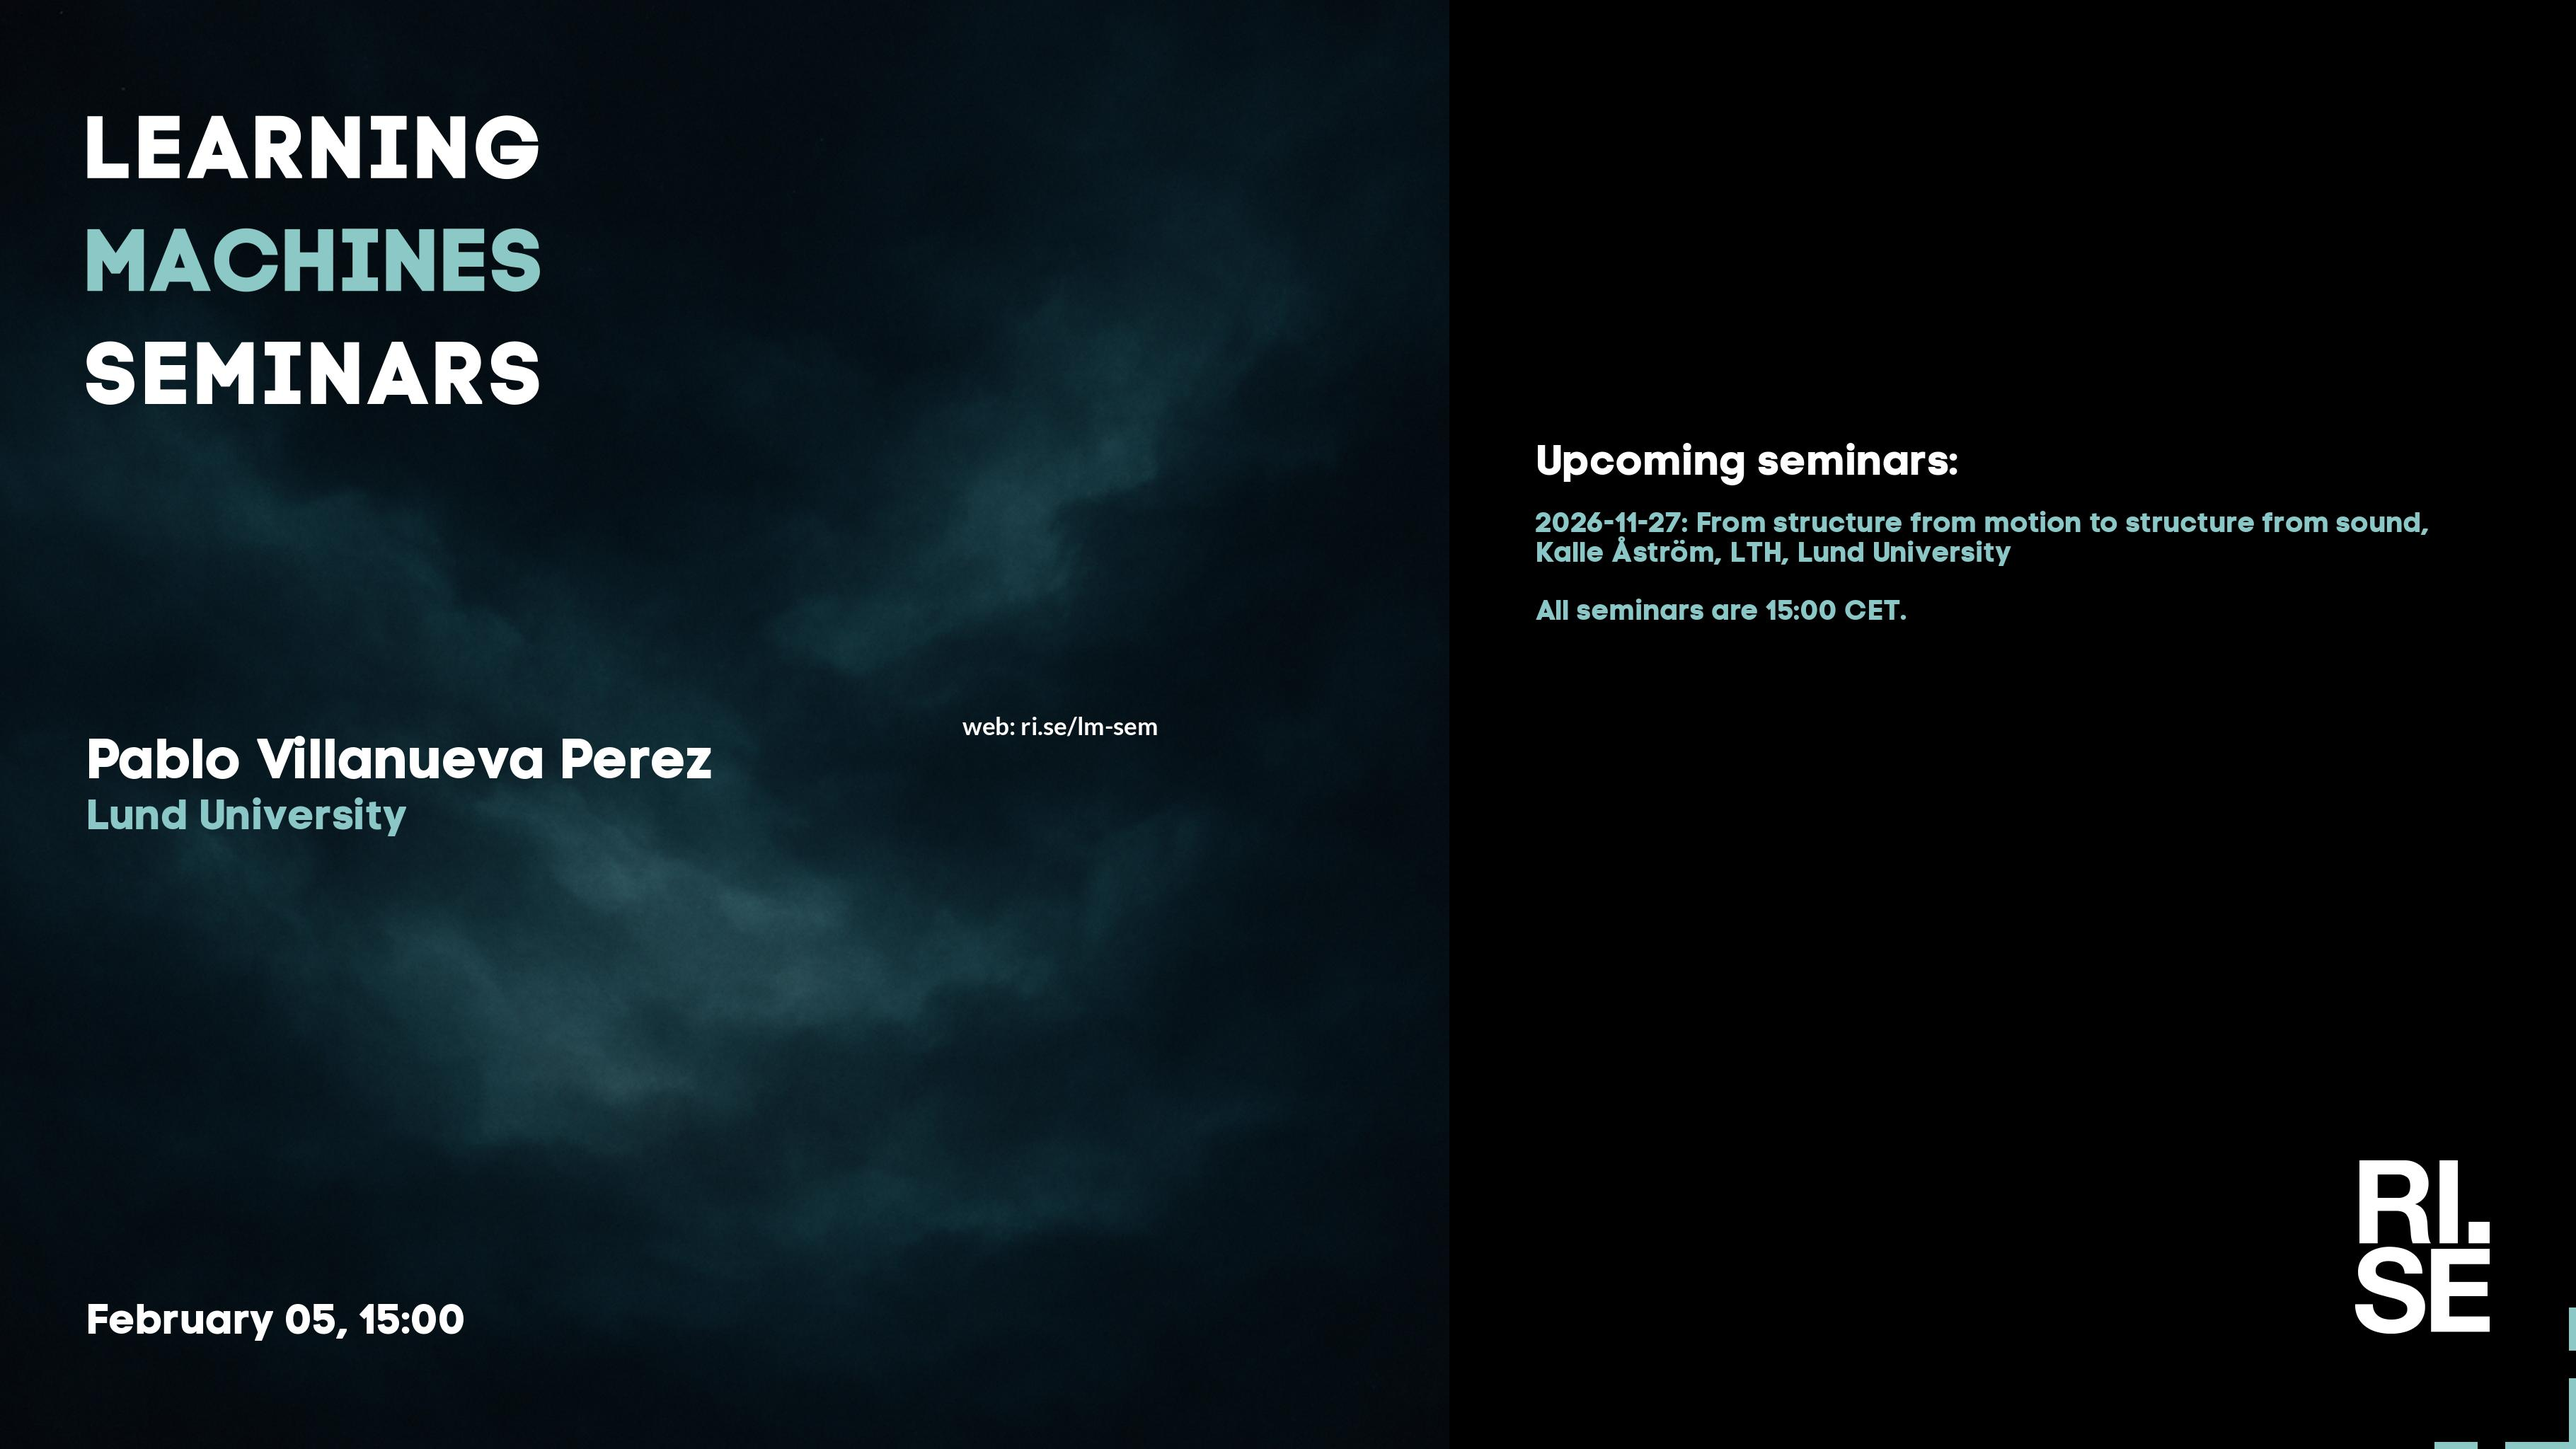
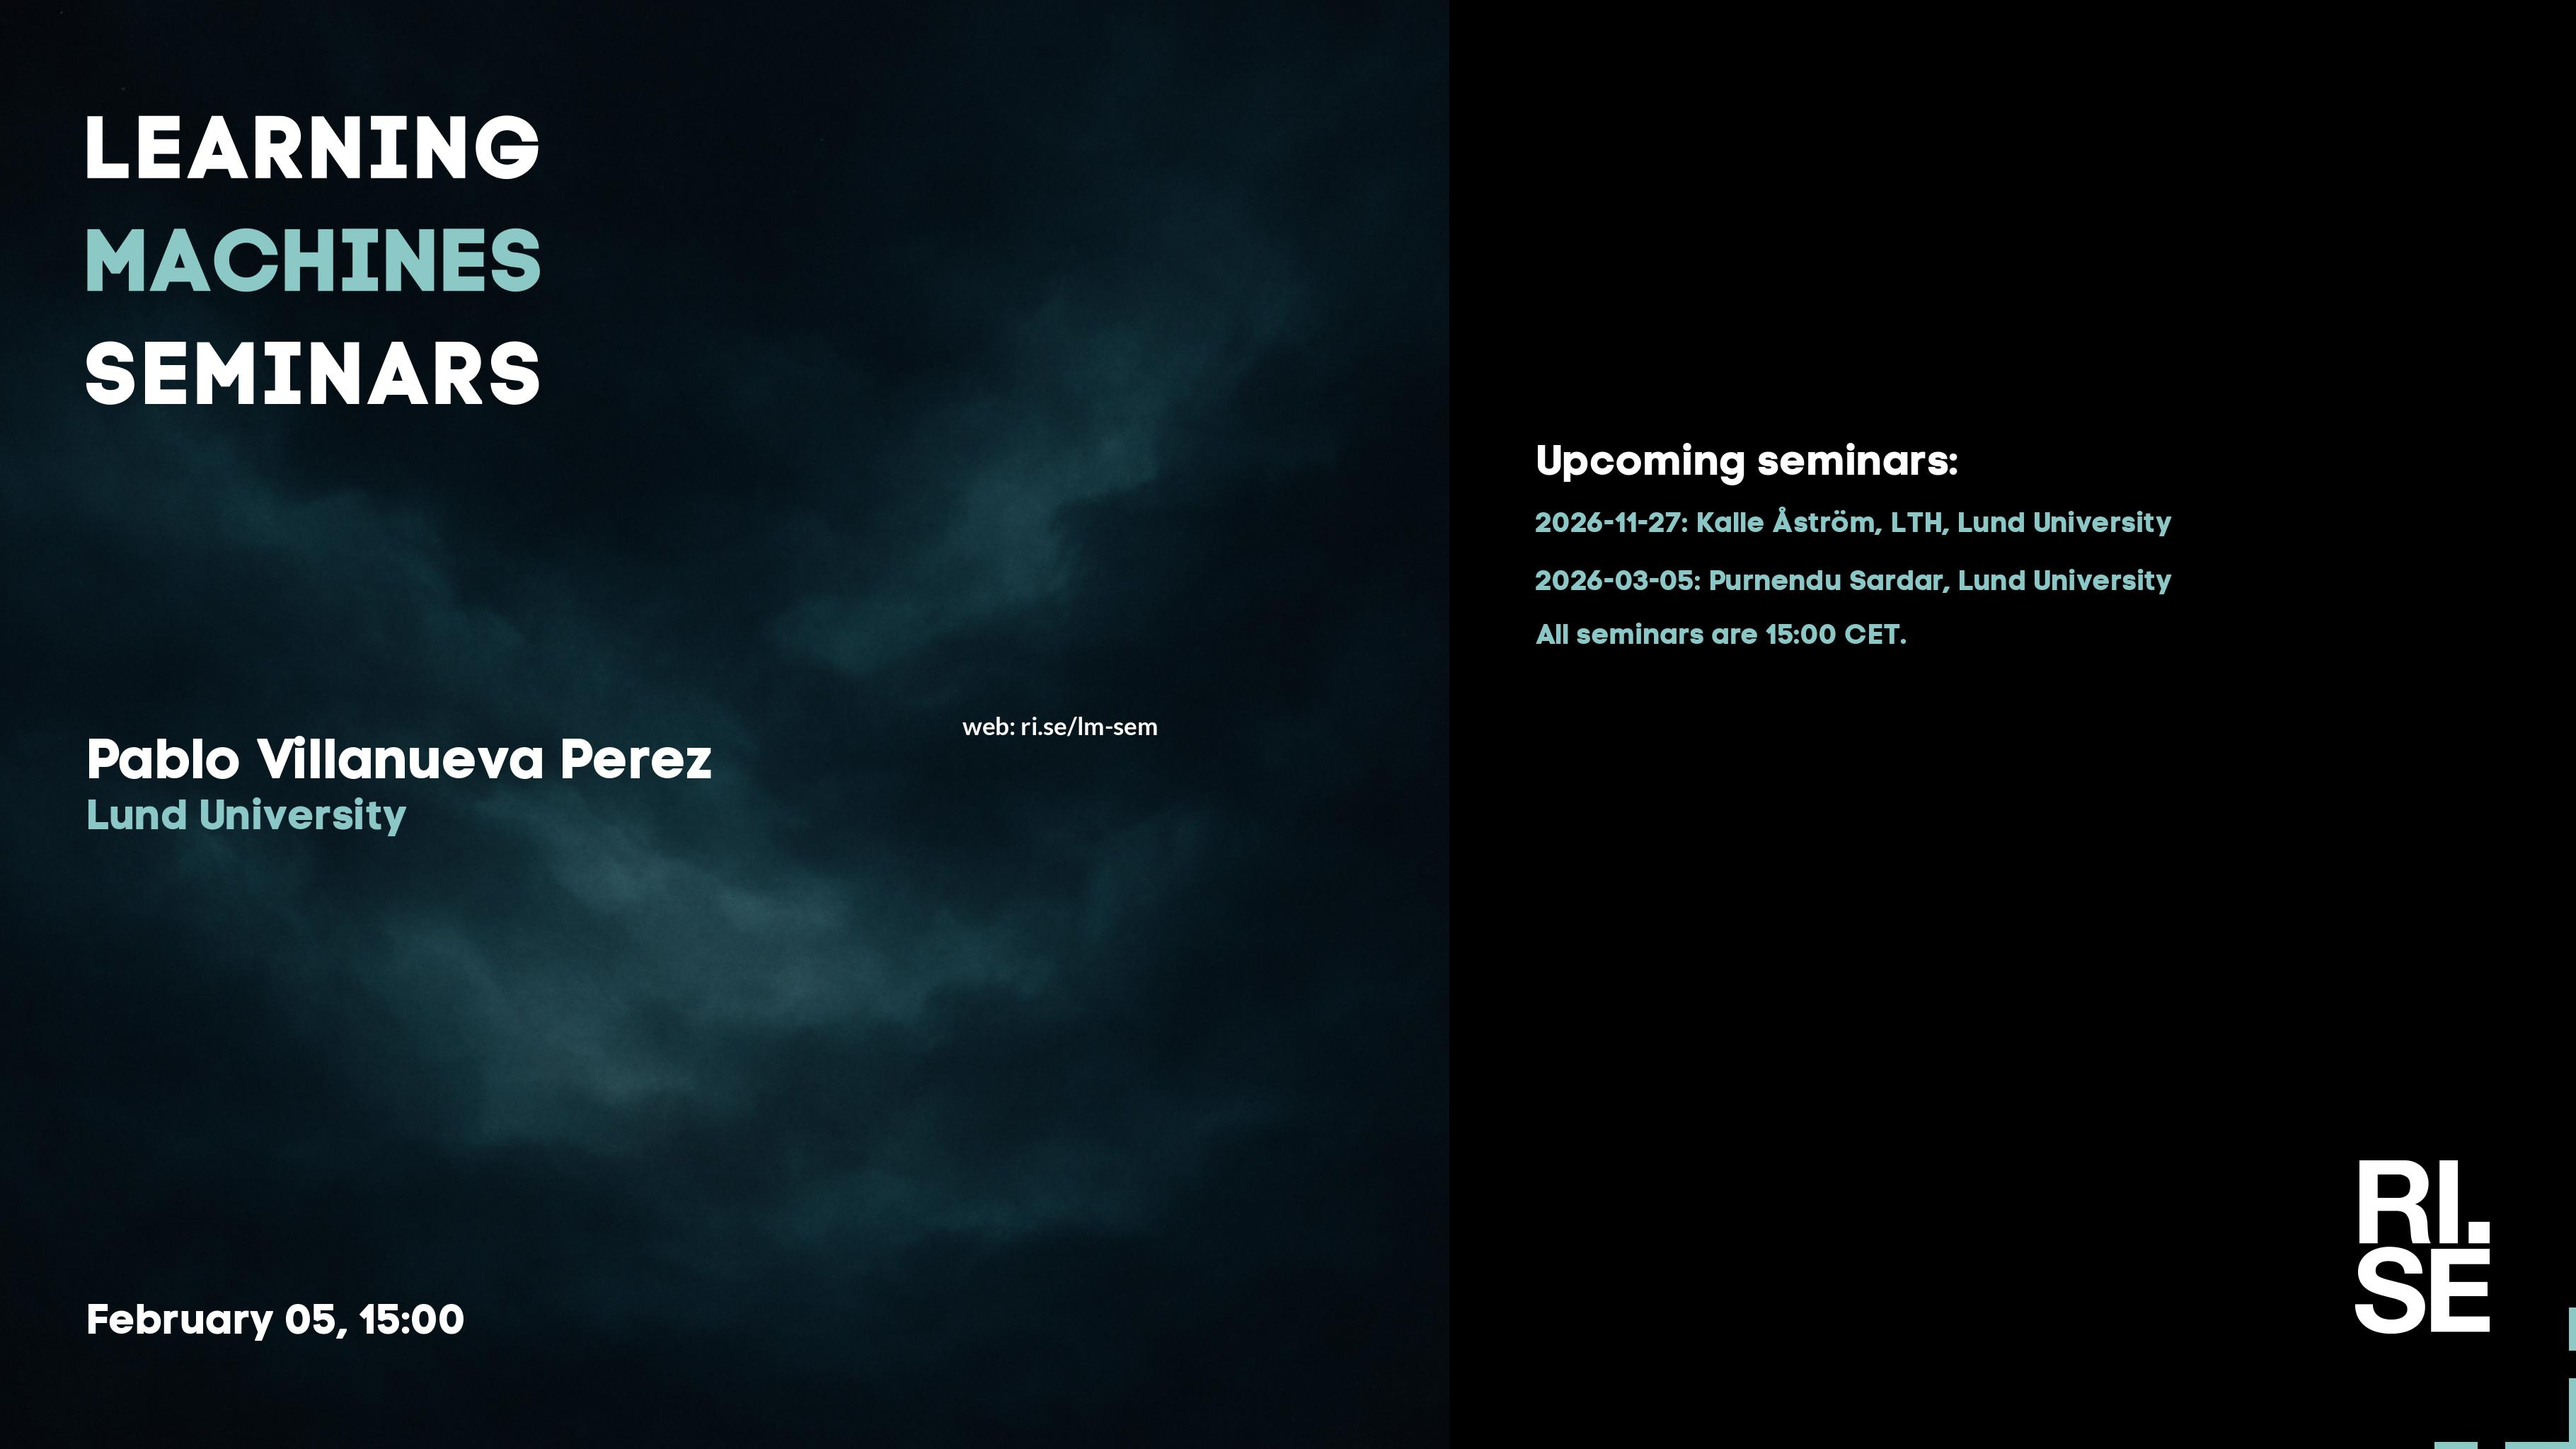
Updated plan on web site.

Changed region(s): [[0.5898, 0.3438, 0.9313, 0.4688]]

diff --git a/lm/2025.md b/lm/2025.md
@@ -45,7 +45,7 @@ table {border-collapse: collapse;}
 | <span style="color:grey"> 2026-01-22 </span> | <span style="color:grey"> Nita M. ? </span> | <span style="color:grey">  </span> | <span style="color:grey">  ---  ---  </span> | <span style="color:grey">  </span> | <span style="color:grey">  </span> | <span style="color:grey"> S~~TABP~~ </span> |
 |  2026-02-05  |  [Pablo Villanueva Perez, Lund University](2026-02-05.md)  |    |  [social media bg ](2026-02-05-social-media-bg-pablo-villanueva-perez.jpg) --- [social media photo ](2026-02-05-social-media-photo-pablo-villanueva-perez.jpg) --- [social media 169 ](2026-02-05-social-media-169-pablo-villanueva-perez.jpg)  |  [meeting backdrop ](2026-02-05-meeting-backdrop-pablo-villanueva-perez.jpg)  |  [youtube thumbnail ](2026-02-05-youtube-thumbnail-pablo-villanueva-perez.jpg)  |  S~~TABP~~  |
 | <span style="color:purple"> 2026-02-19 </span> | <span style="color:purple"> *Up for grabs!!!* </span> | <span style="color:purple">  </span> | <span style="color:purple">  ---  ---  </span> | <span style="color:purple">  </span> | <span style="color:purple">  </span> | <span style="color:purple"> ~~STABP~~ </span> |
-| <span style="color:purple"> 2026-03-05 </span> | <span style="color:purple"> *Up for grabs!!!* </span> | <span style="color:purple">  </span> | <span style="color:purple">  ---  ---  </span> | <span style="color:purple">  </span> | <span style="color:purple">  </span> | <span style="color:purple"> ~~STABP~~ </span> |
+|  2026-03-05  |  [Purnendu Sardar, Lund University](2026-03-05.md)  |    |  [social media bg ](2026-03-05-social-media-bg-purnendu-sardar.jpg) --- [social media photo ](2026-03-05-social-media-photo-purnendu-sardar.jpg) --- [social media 169 ](2026-03-05-social-media-169-purnendu-sardar.jpg)  |  [meeting backdrop ](2026-03-05-meeting-backdrop-purnendu-sardar.jpg)  |  [youtube thumbnail ](2026-03-05-youtube-thumbnail-purnendu-sardar.jpg)  |  S~~TABP~~  |
 | <span style="color:purple"> 2026-03-19 </span> | <span style="color:purple"> *Up for grabs!!!* </span> | <span style="color:purple">  </span> | <span style="color:purple">  ---  ---  </span> | <span style="color:purple">  </span> | <span style="color:purple">  </span> | <span style="color:purple"> ~~STABP~~ </span> |
 | <span style="color:purple"> 2026-04-02 </span> | <span style="color:purple"> *Up for grabs!!!* </span> | <span style="color:purple">  </span> | <span style="color:purple">  ---  ---  </span> | <span style="color:purple">  </span> | <span style="color:purple">  </span> | <span style="color:purple"> ~~STABP~~ </span> |
 | <span style="color:purple"> 2026-04-16 </span> | <span style="color:purple"> *Up for grabs!!!* </span> | <span style="color:purple">  </span> | <span style="color:purple">  ---  ---  </span> | <span style="color:purple">  </span> | <span style="color:purple">  </span> | <span style="color:purple"> ~~STABP~~ </span> |

diff --git a/lm/index.md b/lm/index.md
@@ -45,7 +45,7 @@ table {border-collapse: collapse;}
 | <span style="color:grey"> 2026-01-22 </span> | <span style="color:grey"> Nita M. ? </span> | <span style="color:grey">  </span> | <span style="color:grey">  ---  ---  </span> | <span style="color:grey">  </span> | <span style="color:grey">  </span> | <span style="color:grey"> S~~TABP~~ </span> |
 |  2026-02-05  |  [Pablo Villanueva Perez, Lund University](2026-02-05.md)  |    |  [social media bg ](2026-02-05-social-media-bg-pablo-villanueva-perez.jpg) --- [social media photo ](2026-02-05-social-media-photo-pablo-villanueva-perez.jpg) --- [social media 169 ](2026-02-05-social-media-169-pablo-villanueva-perez.jpg)  |  [meeting backdrop ](2026-02-05-meeting-backdrop-pablo-villanueva-perez.jpg)  |  [youtube thumbnail ](2026-02-05-youtube-thumbnail-pablo-villanueva-perez.jpg)  |  S~~TABP~~  |
 | <span style="color:purple"> 2026-02-19 </span> | <span style="color:purple"> *Up for grabs!!!* </span> | <span style="color:purple">  </span> | <span style="color:purple">  ---  ---  </span> | <span style="color:purple">  </span> | <span style="color:purple">  </span> | <span style="color:purple"> ~~STABP~~ </span> |
-| <span style="color:purple"> 2026-03-05 </span> | <span style="color:purple"> *Up for grabs!!!* </span> | <span style="color:purple">  </span> | <span style="color:purple">  ---  ---  </span> | <span style="color:purple">  </span> | <span style="color:purple">  </span> | <span style="color:purple"> ~~STABP~~ </span> |
+|  2026-03-05  |  [Purnendu Sardar, Lund University](2026-03-05.md)  |    |  [social media bg ](2026-03-05-social-media-bg-purnendu-sardar.jpg) --- [social media photo ](2026-03-05-social-media-photo-purnendu-sardar.jpg) --- [social media 169 ](2026-03-05-social-media-169-purnendu-sardar.jpg)  |  [meeting backdrop ](2026-03-05-meeting-backdrop-purnendu-sardar.jpg)  |  [youtube thumbnail ](2026-03-05-youtube-thumbnail-purnendu-sardar.jpg)  |  S~~TABP~~  |
 | <span style="color:purple"> 2026-03-19 </span> | <span style="color:purple"> *Up for grabs!!!* </span> | <span style="color:purple">  </span> | <span style="color:purple">  ---  ---  </span> | <span style="color:purple">  </span> | <span style="color:purple">  </span> | <span style="color:purple"> ~~STABP~~ </span> |
 | <span style="color:purple"> 2026-04-02 </span> | <span style="color:purple"> *Up for grabs!!!* </span> | <span style="color:purple">  </span> | <span style="color:purple">  ---  ---  </span> | <span style="color:purple">  </span> | <span style="color:purple">  </span> | <span style="color:purple"> ~~STABP~~ </span> |
 | <span style="color:purple"> 2026-04-16 </span> | <span style="color:purple"> *Up for grabs!!!* </span> | <span style="color:purple">  </span> | <span style="color:purple">  ---  ---  </span> | <span style="color:purple">  </span> | <span style="color:purple">  </span> | <span style="color:purple"> ~~STABP~~ </span> |

diff --git a/lm/2026-03-05.md b/lm/2026-03-05.md
@@ -2,13 +2,13 @@
 layout: default
 metatags: "<meta name=\"robots\" content=\"noindex,nofollow\" />"
 ---
-<img src="/lm/2026-02-05-youtube-thumbnail-pablo-villanueva-perez.jpg" />
+<img src="/lm/2026-03-05-youtube-thumbnail-purnendu-sardar.jpg" />
  
 Welcome to this week's Learning Machines seminar.
 
 **Title:** N/A
 
-**Speaker:** Pablo Villanueva Perez, Lund University
+**Speaker:** Purnendu Sardar, Lund University
 
 **Abstract:** N/A
 
@@ -16,14 +16,13 @@ Welcome to this week's Learning Machines seminar.
 
 **Location:** This is an online seminar. Connect using Zoom.
 
-**Date:** 2026-02-05 15:00
+**Date:** 2026-03-05 15:00
 
-**Zoom link:** [https://rise.zoom.us/j/67564688191?pwd=czBI0EOyGCVYWRqbb6fMLEGpqYFNjQ.1](https://rise.zoom.us/j/67564688191?pwd=czBI0EOyGCVYWRqbb6fMLEGpqYFNjQ.1)
+**Zoom link:** [N/A](N/A)
 
 **Upcoming seminars:**
 
-* 2026-11-27: Kalle Åström, LTH, Lund University
-* 2026-03-05: Purnendu Sardar, Lund University
+* 2026-11-27: *From structure from motion to structure from sound*, Kalle Åström, LTH, Lund University
 * All seminars are 15:00 CET.
 
 More information and coming seminars: [https://ri.se/lm-sem](https://ri.se/lm-sem)

diff --git a/lm/statistics-2026.md b/lm/statistics-2026.md
@@ -10,9 +10,9 @@ title: Learning Machines Statistics 2026
 
 
 
-## 2 speakers
+## 3 speakers
 
-Kalle Åström, Pablo Villanueva Perez
+Kalle Åström, Pablo Villanueva Perez, Purnendu Sardar
 
 ## 2 affiliations
 
